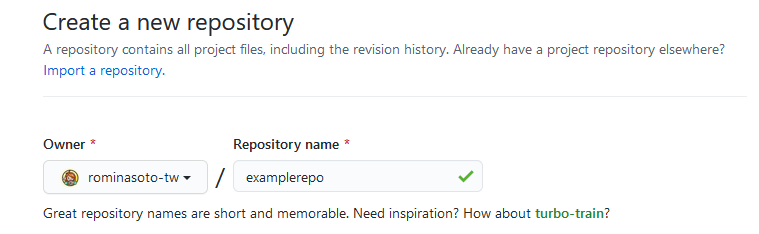
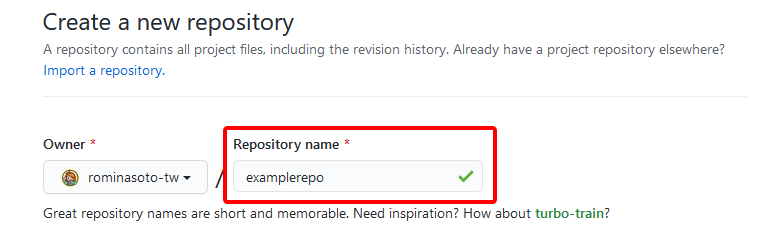
create a repo document created.

Changed region(s): [[0.2727, 0.5385, 0.6667, 0.8974]]

diff --git a/create-git-repo.md b/create-git-repo.md
@@ -4,12 +4,25 @@ title: Create a GitHub Repository
 subtitle: A set of useful tips for beginners.
 ---
 
-![Plus Button](/assets/img/create-git-repo/button-plus.png)
+To create a GitHub repository locate the ![Plus](/assets/img/create-git-repo/button-plus.png) button. Click on it to display the menu then select the **New repository** option.
 
-![Plus Button](/assets/img/create-git-repo/image-1.png)
+![Create a Repository - Menu options](/assets/img/create-git-repo/image-1.png)
 
-![Plus Button](/assets/img/create-git-repo/image-2.png)
+This will display the **Create a new repository** screen.
 
-![Plus Button](/assets/img/create-git-repo/image-3.png)
+![Create a Repository - Create a new repository](/assets/img/create-git-repo/image-2.png)
 
-![Create Repo Button](/assets/img/create-git-repo/button-create-repo.png)
+Here, you need to first enter a name for your repository. If the name is available, a green tick symbol will indicate so.
+
+![Create a Repository - Name available](/assets/img/create-git-repo/image-3.png)
+
+This screen contains the following fields:
+
+* **Repository name:** mandatory text field where you must enter your repository name.
+* **Description:** optional text field that allows you to enter a repository description.
+* **Public/Private:** mutually exclusive radio buttons that will determine whether your repository is public or private. The **Public** option is selected by default.
+* **Add a Readme file:** optional checkbox. Selecting it generates a readme file for your repository. You should use this file to write a long description for your project.
+* **Add .gitignore:** optional checkbox. Selecting it adds a .gitignore file to your repository. Use this file to choose which files not to track from a list of templates.
+* **Choose a license:** optional checkbox. This option lets you choose a license, which tells others what they can and can't do with your code.
+
+After you've completed the required information on this screen, and selected the desired options, click on ![Create Repo Button](/assets/img/create-git-repo/button-create-repo.png) to create your repository.
